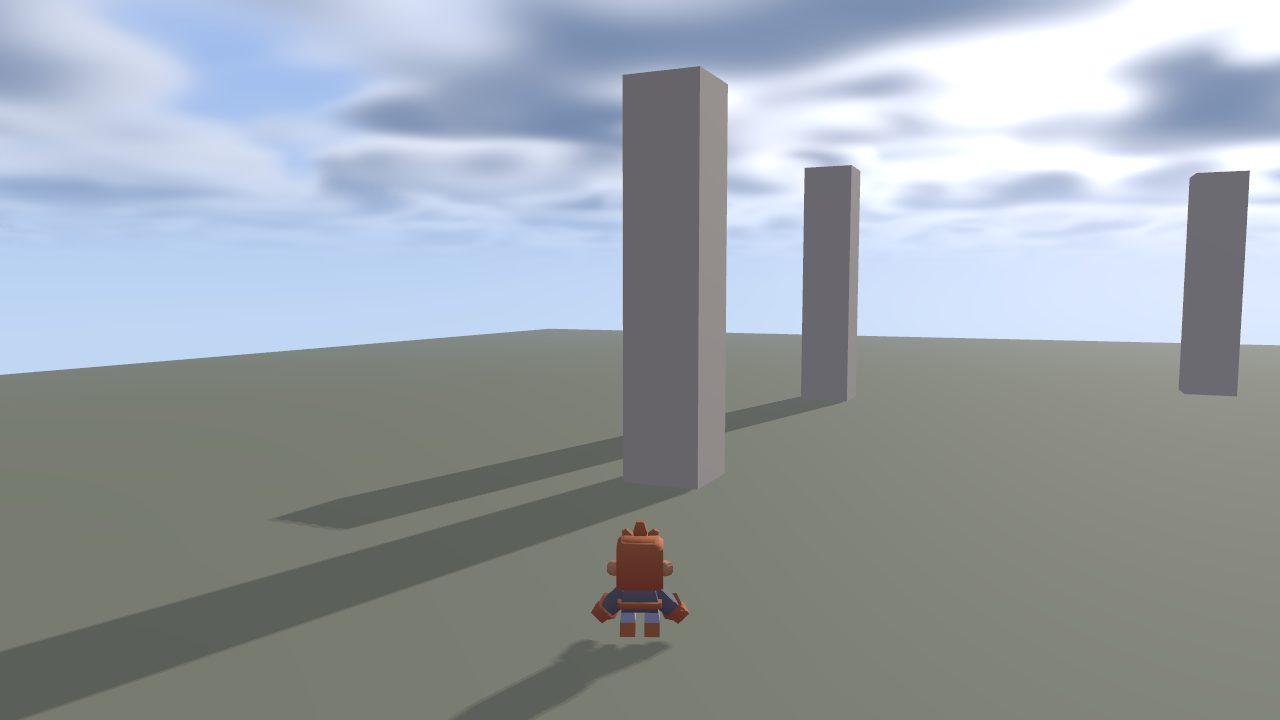
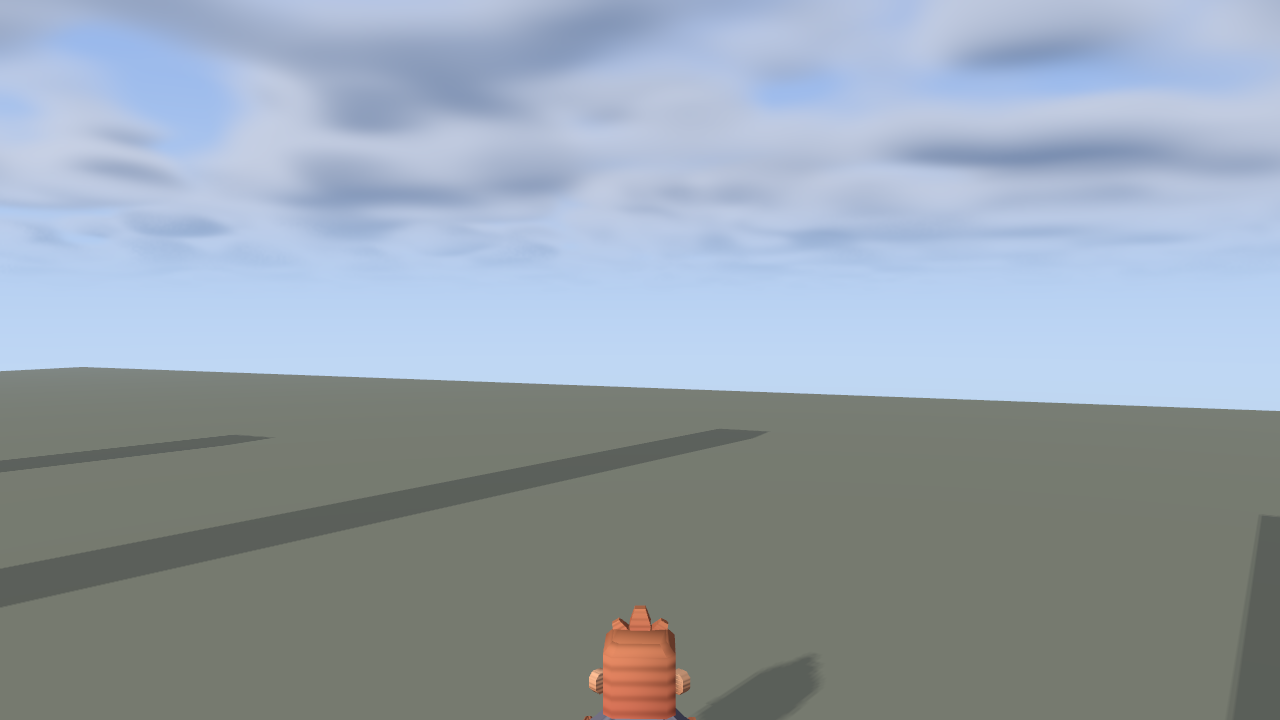
Turn the character around
The hero faced the camera. The model is authored looking down +Z while
the engine's forward is -Z, so the mesh renders 180 degrees from the
entity's facing -- the controller was right the whole time, which is why
movement felt correct, and he simply showed the camera his face while
running the right way.

06-skinned looked fine only by accident. Its demo parks the camera at
demoAngle+pi, on the far side, and that cancelled the flip; manual play
there showed his face too. Both examples now correct the model where the
rotation is copied to the mesh parts, and both demos drop the compensating
+pi from the camera.

Also in 15-kitchen-sink: the demo no longer reads the mouse and pins its
pitch. That path drives the documentation screenshot, and consuming a real
mouse delta made the capture depend on where the cursor happened to be --
two runs of the same build came out RMS 0.59 apart, which is a different
shot rather than a different frame. It is in task determinism now, where
it fails loudly if that comes back.

And a -timeofday flag, matching 08-grass, because the sky and star work
only shows at night and the cycle takes five minutes to get there.

Found by looking, not by measuring. A pixel-flow test on the grass field
said the hero was moonwalking and sent me after a camera bug that was not
there; the grass sways, which polluted the correlation, and its match
residual was six times worse than the same test on 06-skinned. The
[…]

diff --git a/examples/15-kitchen-sink/main.go b/examples/15-kitchen-sink/main.go
@@ -89,6 +89,8 @@ type game struct {
 	// One entity per mesh in the model, all sharing a joint buffer.
 	parts []glyph.Entity
 
+	timeOfDay float32
+
 	font *renderer.Font
 	text *renderer.MSDFText
 
@@ -209,7 +211,10 @@ func (g *game) Init(e *glyph.Engine) error {
 
 	// ── world ──
 	e.SetDayCycleSpeed(1.0 / 300.0)
-	e.SetTimeOfDay(0.30) // morning sun: long shadows across the grass
+	// Morning sun by default, for long shadows across the grass. A flag because
+	// the sky and star work only shows at night, and the cycle takes five
+	// minutes to get there.
+	e.SetTimeOfDay(g.timeOfDay)
 	// Enough haze to hide where the grass stops, not so much that the far side
 	// of the island turns into sky.
 	e.SetFogDensity(0.0075)
@@ -232,8 +237,14 @@ func (g *game) Update(e *glyph.Engine, dt float32) {
 		e.Close()
 	}
 
-	// Mouse look consumes this frame's delta, so it belongs per-frame.
-	g.camera.Update(in)
+	// Mouse look consumes this frame's delta, so it belongs per-frame -- and it
+	// has to happen before the intent is built, or movement follows the camera
+	// a frame late. Skipped entirely in demo mode: that path drives the
+	// documentation screenshot, and reading a real mouse delta made the capture
+	// depend on where the cursor happened to be sitting.
+	if !g.demo {
+		g.camera.Update(in)
+	}
 
 	g.intent = glyph.MoveIntent{Yaw: g.camera.Yaw}
 	if g.demo {
@@ -244,7 +255,13 @@ func (g *game) Update(e *glyph.Engine, dt float32) {
 		g.intent.Forward = 1
 		g.intent.Sprint = true
 		g.intent.Yaw = g.demoAngle
-		g.camera.Yaw = g.demoAngle + math.Pi
+		g.camera.Yaw = g.demoAngle
+		// Pinned, and the mouse is not read at all on this path. The demo
+		// drives the documentation screenshot, and consuming a real mouse delta
+		// made the capture depend on where the cursor happened to be sitting:
+		// two runs of the same build came out RMS 0.59 apart, which is a
+		// different shot, not a different frame.
+		g.camera.Pitch = 0.30
 	} else {
 		if in.KeyDown(input.KeyW) {
 			g.intent.Forward++
@@ -324,7 +341,13 @@ func (g *game) LateUpdate(e *glyph.Engine, dt float32) {
 		for _, ent := range g.parts {
 			if pt, ok := e.C.Transform.Get(ent); ok {
 				pt.Position = feet.Position
+				// The model is authored facing +Z; the engine's forward is -Z
+				// (see MoveIntent.Yaw and the controller's forward vector), so
+				// the mesh renders 180 degrees from the entity's facing. The
+				// controller is right and the character still moves where it
+				// should -- he just showed the camera his face while doing it.
 				pt.Rotation = t.Rotation
+				pt.Rotation[1] += math.Pi
 			}
 		}
 		g.camera.Target = t.Position
@@ -482,6 +505,7 @@ func main() {
 	fullscreen := flag.Bool("fullscreen", false, "run fullscreen on the primary monitor")
 	frames := flag.Int("frames", 0, "render N frames then exit (0 = run until closed)")
 	seed := flag.Int64("seed", 4, "terrain generation seed")
+	timeOfDay := flag.Float64("timeofday", 0.30, "starting time of day: 0 = midnight, 0.5 = noon")
 	shot := flag.String("screenshot", "", "write a PNG of the last frame to this path")
 	demo := flag.Bool("demo", false, "run a loop automatically, no input needed")
 	gputime := flag.Bool("gputime", false, "print mean per-pass GPU timings on exit")
@@ -505,7 +529,7 @@ func main() {
 		opts = append(opts, glyph.WithScreenshot(*shot))
 	}
 
-	e, err := glyph.New(&game{seed: *seed, demo: *demo}, opts...)
+	e, err := glyph.New(&game{seed: *seed, demo: *demo, timeOfDay: float32(*timeOfDay)}, opts...)
 	if err != nil {
 		log.Fatalf("create engine: %v", err)
 	}

diff --git a/examples/06-skinned/main.go b/examples/06-skinned/main.go
@@ -229,7 +229,7 @@ func (g *game) Update(e *glyph.Engine, dt float32) {
 		g.demoAngle += 0.6 * dt
 		g.intent.Forward = 1
 		g.intent.Yaw = g.demoAngle
-		g.camera.Yaw = g.demoAngle + math.Pi
+		g.camera.Yaw = g.demoAngle
 	} else {
 		if in.KeyDown(input.KeyW) {
 			g.intent.Forward++
@@ -310,7 +310,12 @@ func (g *game) LateUpdate(e *glyph.Engine, dt float32) {
 		for _, ent := range g.parts {
 			if pt, ok := e.C.Transform.Get(ent); ok {
 				pt.Position = feet.Position
+				// The model is authored facing +Z; the engine's forward is -Z,
+				// so the mesh renders 180 degrees from the entity's facing.
+				// The demo hid this by putting the camera on the far side,
+				// which cancelled the flip -- manual play showed his face.
 				pt.Rotation = t.Rotation
+				pt.Rotation[1] += math.Pi
 			}
 		}
 
